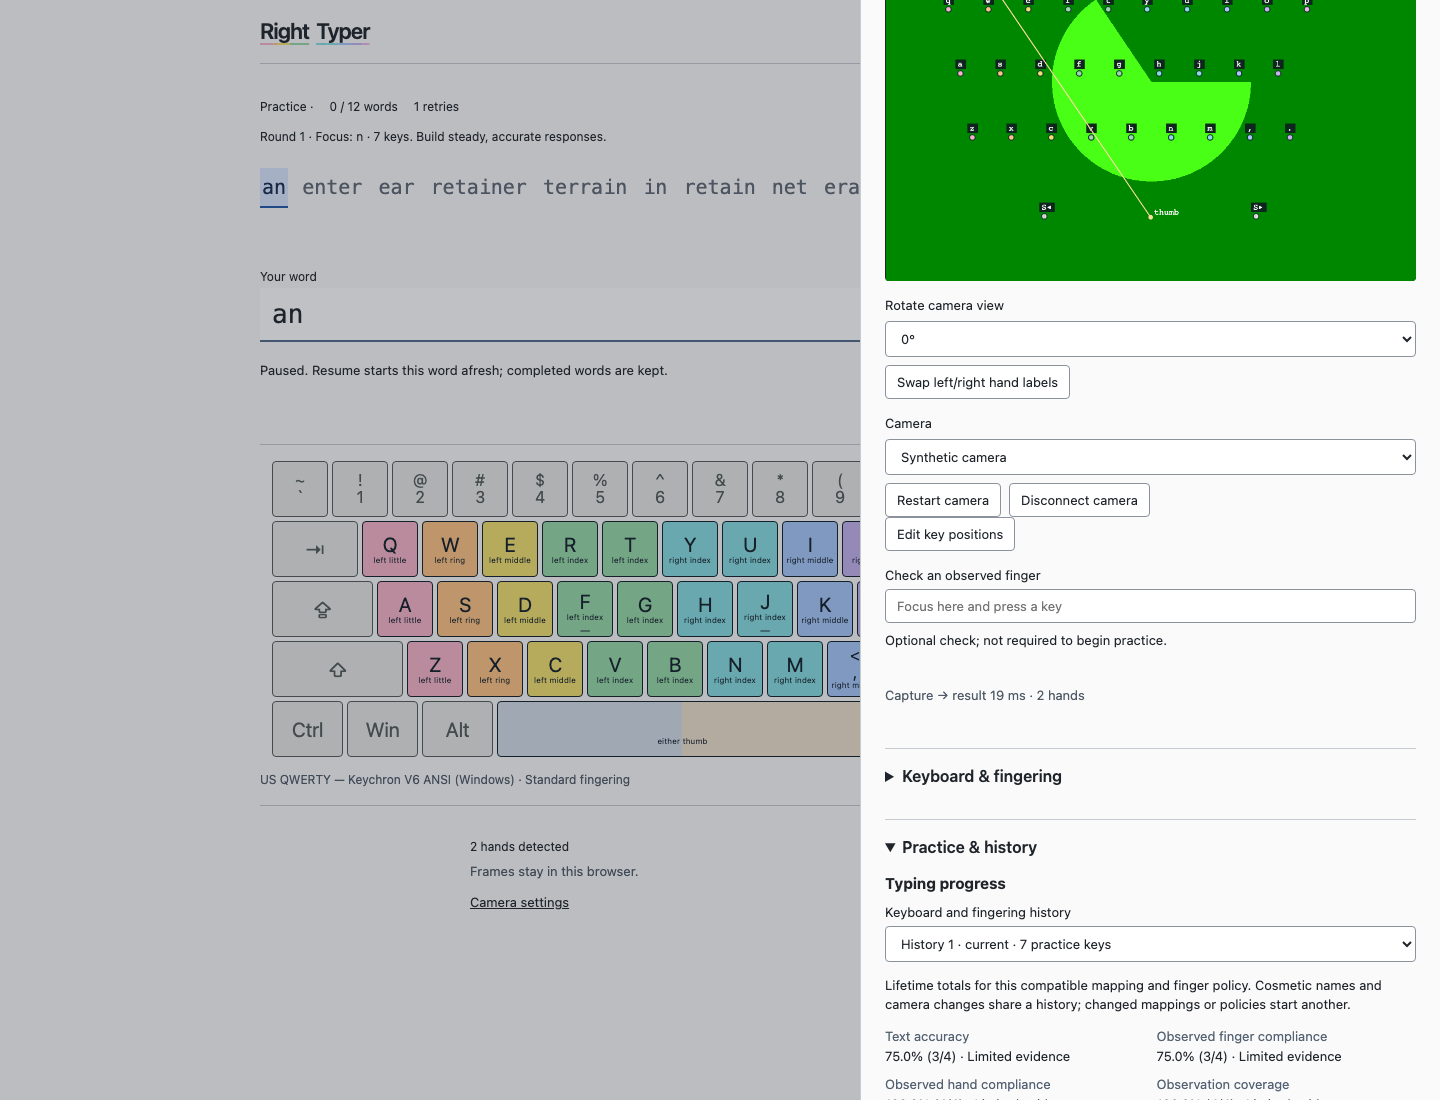
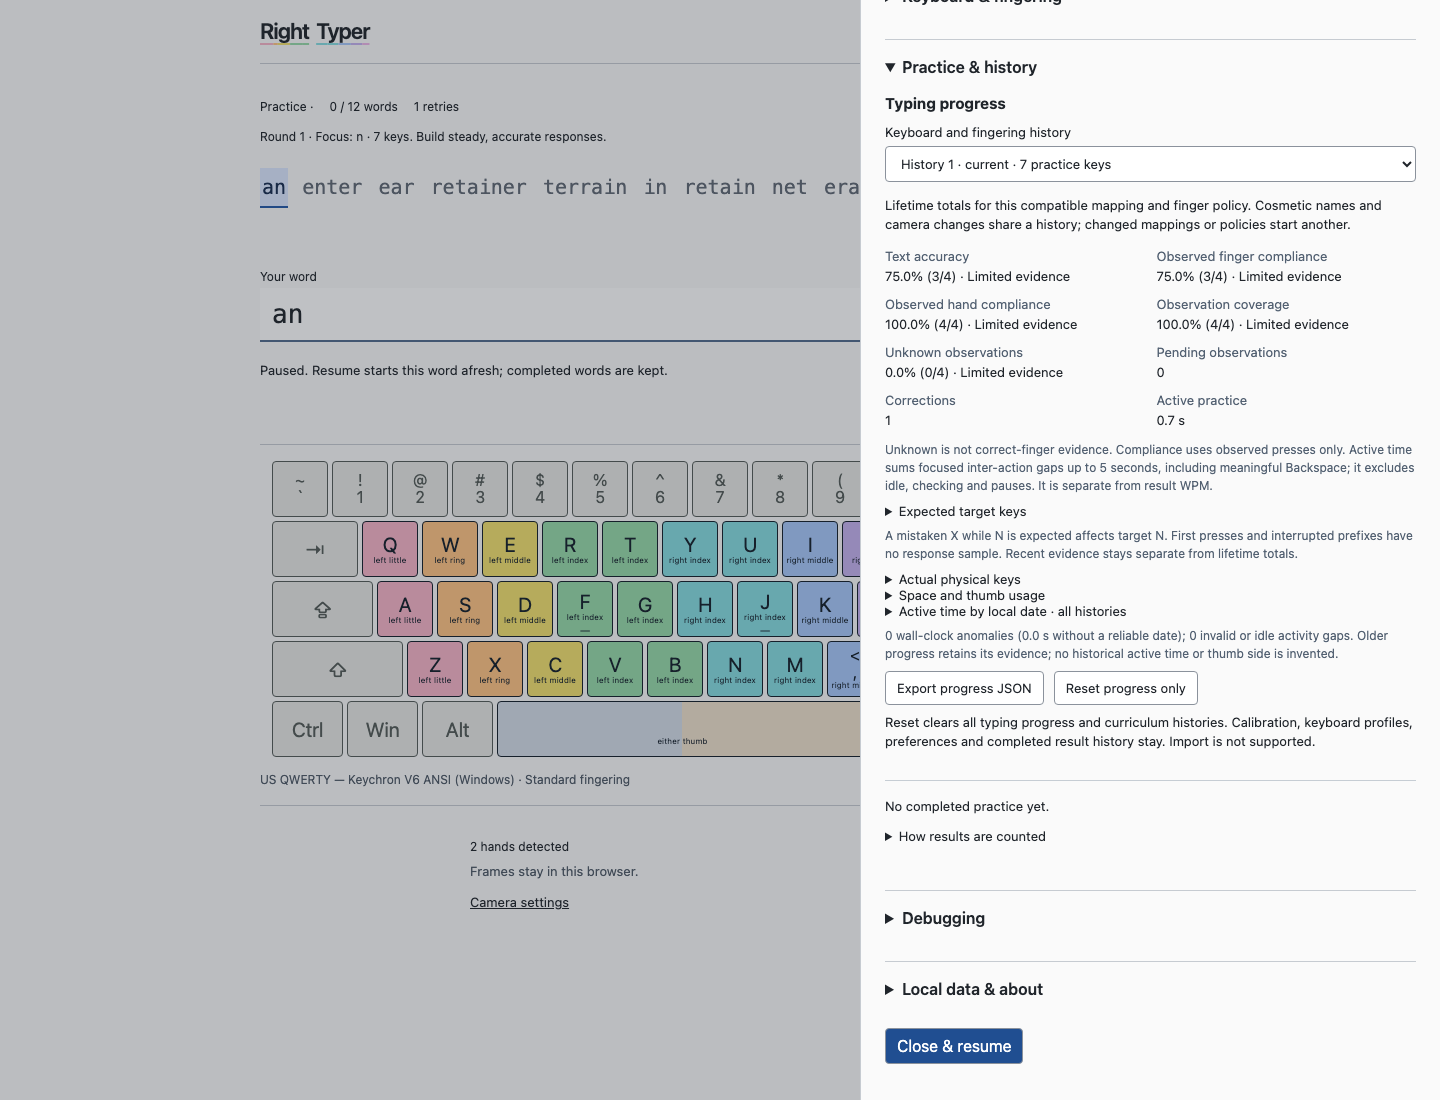
test: frame progress screenshots around the inspected metrics

Changed region(s): [[0.5938, 0.0, 1.0, 0.9891]]

diff --git a/e2e/progress-metrics.spec.ts b/e2e/progress-metrics.spec.ts
@@ -51,7 +51,9 @@ test('inspect exact target/actual counters, export, reload and reset progress wi
   await expect(page.locator('#retry')).toBeVisible();
   await openSettings(page, 'history-group');
   await expect(page.locator('#progress-view')).toContainText('75.0% (3/4)');
-  await page.locator('#progress-title').scrollIntoViewIfNeeded();
+  await page
+    .locator('#progress-title')
+    .evaluate((element) => element.scrollIntoView({ block: 'start' }));
   await page.screenshot({ path: '/tmp/alo280-summary.png' });
   const expected = page.getByRole('region', { name: 'Expected target keys', exact: true });
   await page.getByText('Expected target keys', { exact: true }).click();
@@ -90,7 +92,9 @@ test('inspect exact target/actual counters, export, reload and reset progress wi
     .evaluateAll((details) =>
       details.forEach((detail) => ((detail as HTMLDetailsElement).open = false)),
     );
-  await page.locator('#progress-title').scrollIntoViewIfNeeded();
+  await page
+    .locator('#progress-title')
+    .evaluate((element) => element.scrollIntoView({ block: 'start' }));
   await page.screenshot({ path: '/tmp/alo280-reset-390.png' });
   expect(errors).toEqual([]);
   expect(external).toEqual([]);
